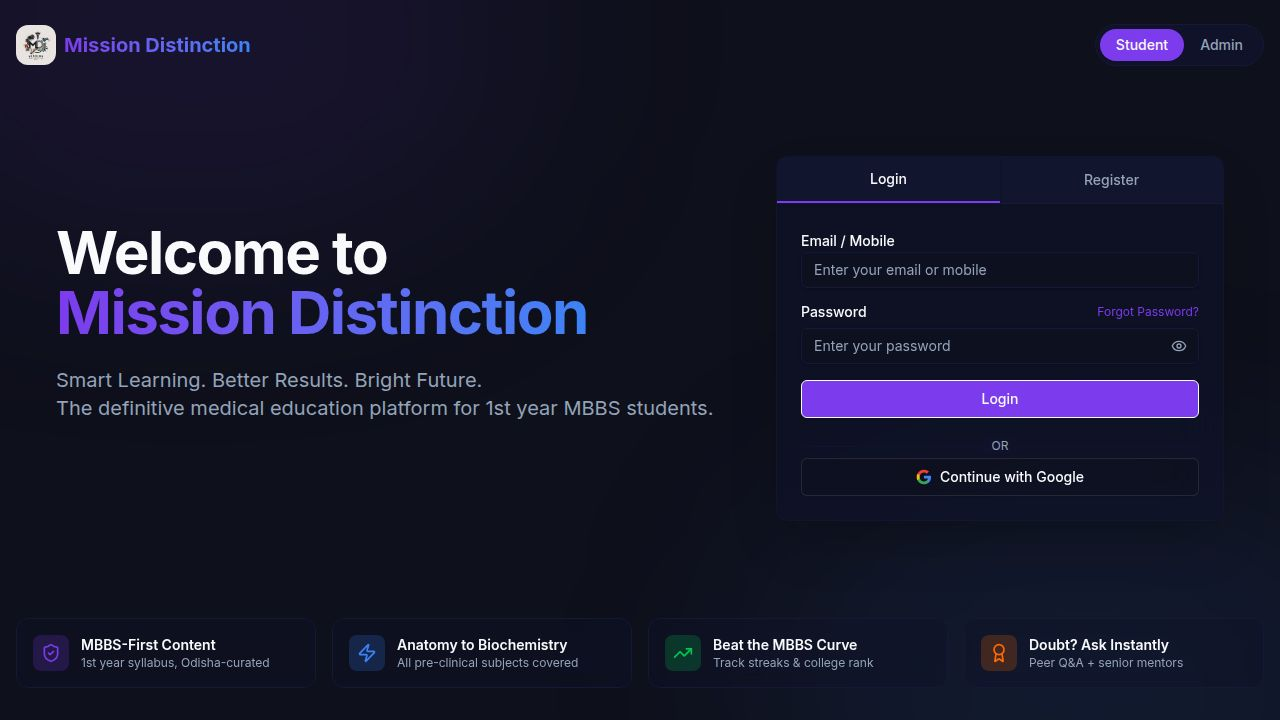
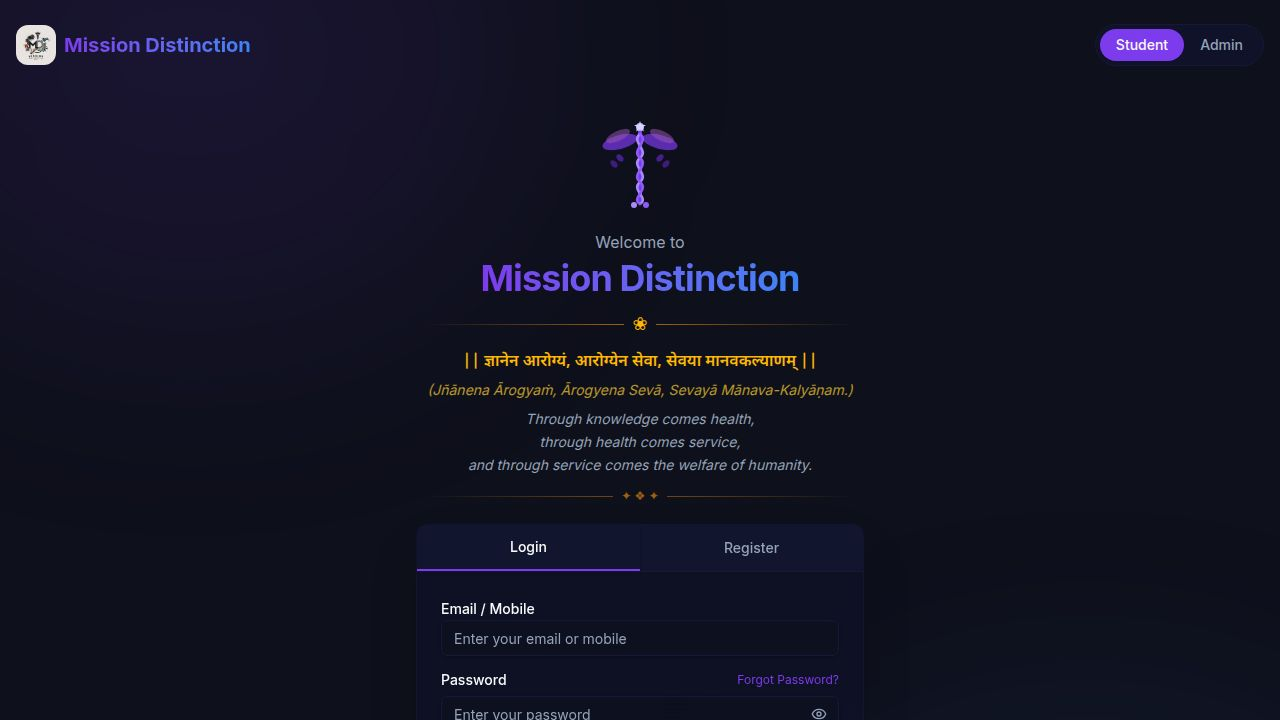
Redesign landing page: add Sanskrit motto and single-column layout
- Switch hero from side-by-side to single centered column
- Add purple SVG caduceus/medical staff symbol above title
- Add Sanskrit motto in golden/amber: ज्ञानेन आरोग्यं, आरोग्येन सेवा, सेवया मानवकल्याणम्
- Add IAST transliteration (italic, muted amber)
- Add English translation (italic, muted)
- Add decorative lotus (❀) top divider and ornamental (✦❖✦) bottom divider
- Auth card and feature strip unchanged

diff --git a/artifacts/mission-distinction/src/pages/auth/LandingPage.tsx b/artifacts/mission-distinction/src/pages/auth/LandingPage.tsx
@@ -296,33 +296,92 @@ export default function LandingPage() {
       </header>
 
       {/* Main Content */}
-      <main className="flex-1 flex flex-col lg:flex-row items-center justify-center container mx-auto px-4 py-12 gap-12 z-10">
-        
-        {/* Left Side: Hero Text */}
-        <div className="flex-1 text-center lg:text-left max-w-2xl">
-          <motion.h1 
-            initial={{ opacity: 0, y: 20 }}
-            animate={{ opacity: 1, y: 0 }}
-            transition={{ duration: 0.5 }}
-            className="text-4xl lg:text-6xl font-extrabold tracking-tight mb-6"
-          >
-            Welcome to <br/>
-            <span className="text-transparent bg-clip-text bg-gradient-to-r from-primary to-secondary">
-              Mission Distinction
-            </span>
-          </motion.h1>
-          <motion.p 
-            initial={{ opacity: 0, y: 20 }}
-            animate={{ opacity: 1, y: 0 }}
-            transition={{ duration: 0.5, delay: 0.1 }}
-            className="text-lg lg:text-xl text-muted-foreground mb-8"
-          >
-            Smart Learning. Better Results. Bright Future. <br/>
-            The definitive medical education platform for 1st year MBBS students.
-          </motion.p>
-        </div>
+      <main className="flex-1 flex flex-col items-center justify-center container mx-auto px-4 py-6 gap-0 z-10">
 
-        {/* Right Side: Auth Forms */}
+        {/* Caduceus Symbol */}
+        <motion.div
+          initial={{ opacity: 0, scale: 0.8 }}
+          animate={{ opacity: 1, scale: 1 }}
+          transition={{ duration: 0.6 }}
+          className="mb-4"
+        >
+          <svg width="80" height="100" viewBox="0 0 80 100" fill="none" xmlns="http://www.w3.org/2000/svg">
+            {/* Wings */}
+            <ellipse cx="20" cy="28" rx="18" ry="7" fill="#7C3AED" opacity="0.7" transform="rotate(-15 20 28)"/>
+            <ellipse cx="60" cy="28" rx="18" ry="7" fill="#7C3AED" opacity="0.7" transform="rotate(15 60 28)"/>
+            <ellipse cx="18" cy="22" rx="13" ry="5" fill="#9B59B6" opacity="0.5" transform="rotate(-25 18 22)"/>
+            <ellipse cx="62" cy="22" rx="13" ry="5" fill="#9B59B6" opacity="0.5" transform="rotate(25 62 22)"/>
+            {/* Staff */}
+            <rect x="38" y="15" width="4" height="75" rx="2" fill="#7C3AED"/>
+            {/* Snake 1 */}
+            <path d="M40 20 C30 28, 50 36, 40 44 C30 52, 50 60, 40 68 C30 76, 50 84, 40 90" stroke="#A78BFA" strokeWidth="2.5" fill="none" strokeLinecap="round"/>
+            {/* Snake 2 */}
+            <path d="M40 20 C50 28, 30 36, 40 44 C50 52, 30 60, 40 68 C50 76, 30 84, 40 90" stroke="#8B5CF6" strokeWidth="2.5" fill="none" strokeLinecap="round"/>
+            {/* Snake heads */}
+            <circle cx="34" cy="91" r="3" fill="#A78BFA"/>
+            <circle cx="46" cy="91" r="3" fill="#8B5CF6"/>
+            {/* Star at top */}
+            <circle cx="40" cy="13" r="4" fill="#C4B5FD"/>
+            <path d="M40 7 L41.5 11 L46 11 L42.5 13.5 L44 17.5 L40 15 L36 17.5 L37.5 13.5 L34 11 L38.5 11 Z" fill="#DDD6FE" opacity="0.9"/>
+            {/* Laurel leaves */}
+            <path d="M22 42 C18 38, 14 42, 18 46 C22 50, 26 46, 22 42Z" fill="#6D28D9" opacity="0.6"/>
+            <path d="M16 48 C12 44, 8 48, 12 52 C16 56, 20 52, 16 48Z" fill="#6D28D9" opacity="0.5"/>
+            <path d="M58 42 C62 38, 66 42, 62 46 C58 50, 54 46, 58 42Z" fill="#6D28D9" opacity="0.6"/>
+            <path d="M64 48 C68 44, 72 48, 68 52 C64 56, 60 52, 64 48Z" fill="#6D28D9" opacity="0.5"/>
+          </svg>
+        </motion.div>
+
+        {/* Title */}
+        <motion.div
+          initial={{ opacity: 0, y: 20 }}
+          animate={{ opacity: 1, y: 0 }}
+          transition={{ duration: 0.5 }}
+          className="text-center mb-3"
+        >
+          <p className="text-base text-muted-foreground mb-1">Welcome to</p>
+          <h1 className="text-3xl sm:text-4xl font-extrabold tracking-tight text-transparent bg-clip-text bg-gradient-to-r from-primary to-secondary">
+            Mission Distinction
+          </h1>
+        </motion.div>
+
+        {/* Motto Section */}
+        <motion.div
+          initial={{ opacity: 0, y: 15 }}
+          animate={{ opacity: 1, y: 0 }}
+          transition={{ duration: 0.5, delay: 0.15 }}
+          className="w-full max-w-md text-center mb-5 px-2"
+        >
+          {/* Top divider with lotus */}
+          <div className="flex items-center justify-center gap-2 mb-3">
+            <div className="h-px flex-1 bg-gradient-to-r from-transparent to-amber-500/60" />
+            <span className="text-amber-400 text-lg">❀</span>
+            <div className="h-px flex-1 bg-gradient-to-l from-transparent to-amber-500/60" />
+          </div>
+
+          {/* Sanskrit */}
+          <p className="text-amber-400 font-semibold text-sm sm:text-base leading-relaxed mb-1" style={{ fontFamily: "'Noto Sans Devanagari', sans-serif" }}>
+            || ज्ञानेन आरोग्यं, आरोग्येन सेवा, सेवया मानवकल्याणम् ||
+          </p>
+          {/* Transliteration */}
+          <p className="text-amber-300/70 text-xs sm:text-sm italic mb-2">
+            (Jñānena Ārogyaṁ, Ārogyena Sevā, Sevayā Mānava-Kalyāṇam.)
+          </p>
+          {/* English */}
+          <p className="text-muted-foreground text-xs sm:text-sm italic leading-relaxed">
+            Through knowledge comes health,<br/>
+            through health comes service,<br/>
+            and through service comes the welfare of humanity.
+          </p>
+
+          {/* Bottom divider */}
+          <div className="flex items-center justify-center gap-2 mt-3">
+            <div className="h-px flex-1 bg-gradient-to-r from-transparent to-amber-500/40" />
+            <span className="text-amber-500/60 text-xs">✦ ❖ ✦</span>
+            <div className="h-px flex-1 bg-gradient-to-l from-transparent to-amber-500/40" />
+          </div>
+        </motion.div>
+
+        {/* Auth Forms */}
         <div className="w-full max-w-md">
           <motion.div
             initial={{ opacity: 0, scale: 0.95 }}